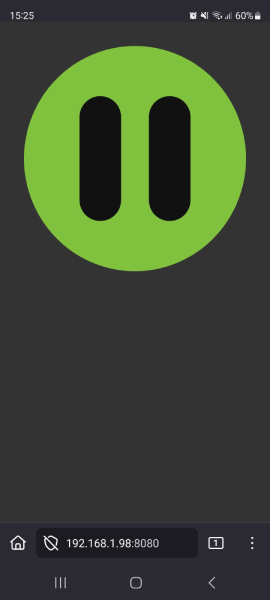
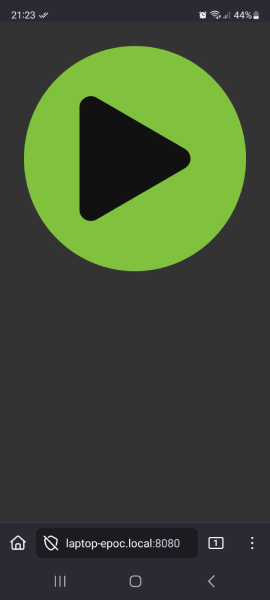
Update screenshot and readme

diff --git a/README.md b/README.md
@@ -7,7 +7,7 @@ A dead simple, web-based remote to control playback on your computer from any de
 </p>
 
 Too lazy to get up from your coach to pause the movie streamed on your computer when the lady goes to the toilet? I got
-you covered. One button, one function: simplicity as a product. Plus zero installation fuss.
+you covered. One button, one function: simplicity as a product. Plus zero installation or configuration fuss.
 
 ## Prerequisites
 
@@ -22,9 +22,9 @@ you covered. One button, one function: simplicity as a product. Plus zero instal
 ## Usage
 
   1. `quart run`
-  2. Run any program which is MPRIS-compatible (Firefox, VLC, whatever)
-  3. On another device connected to the same network, navigate to `http://<name>.local:8080`, where `<name>` is the name of the
-     computer running this project
+  2. Run any program which is MPRIS-compatible (Firefox, VLC, whatever). The first one found will be used
+  3. On another device connected to the same network, navigate to `http://<name>.local:8080`, where `<name>` is the name
+     of the computer running this project
 
 > [!CAUTION]
 > This project is not suitable for production use. You have been warned.
